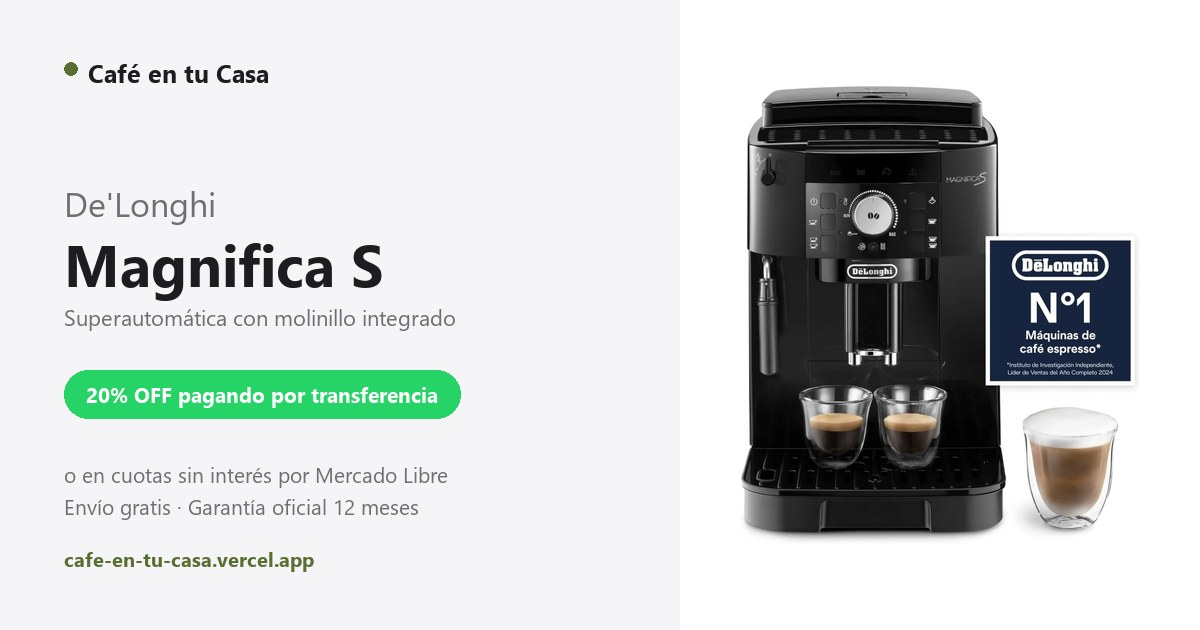
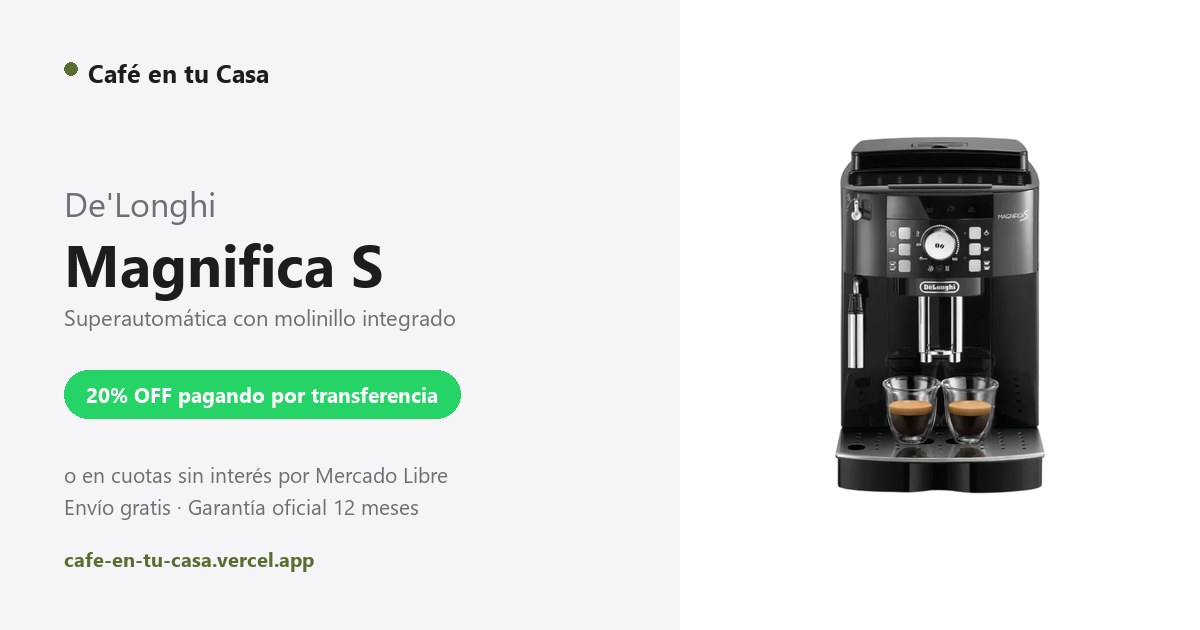
Galeria de la Magnifica S con 4 fotos nuevas

Changed region(s): [[0.6167, 0.1206, 0.9558, 0.8746]]

diff --git a/assets/js/productos.js b/assets/js/productos.js
@@ -37,7 +37,13 @@ const PRODUCTOS = [
     stock: true,
     color: 'Negro',
     linkML: 'https://www.mercadolibre.com.ar/cafetera-delonghi-ecam11112b-magnifica-s-super-auto/up/MLAU3558782080?pdp_filters=item_id:MLA2561979252',
-    imgs: ['assets/img/magnifica-s.webp'],
+    imgs: [
+      'assets/img/magnifica-s-1.webp',   // frente
+      'assets/img/magnifica-s-2.webp',   // sirviendo cafe
+      'assets/img/magnifica-s-3.webp',   // espumador de leche
+      'assets/img/magnifica-s-4.webp',   // panel de control
+      'assets/img/magnifica-s.webp'      // foto oficial De'Longhi (borrala si no te gusta)
+    ],
     highlights: [
       'Muele el grano en el momento, en cada taza',
       'Molinillo cónico de acero con 13 niveles de molienda',
